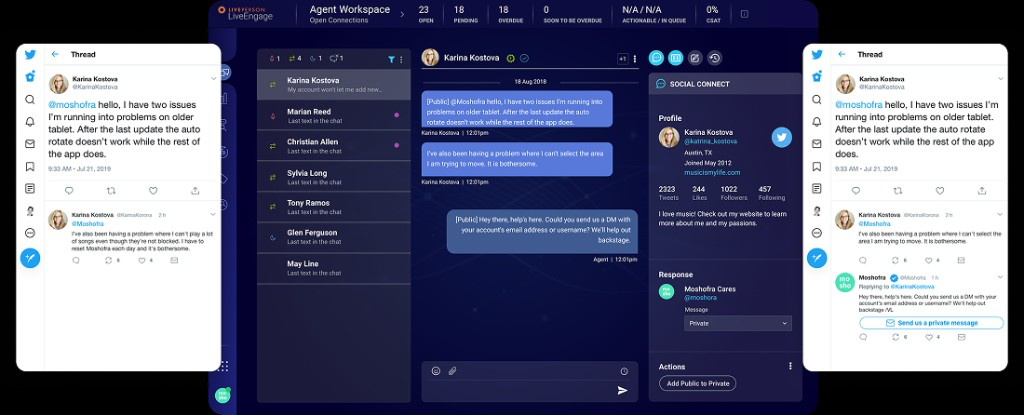
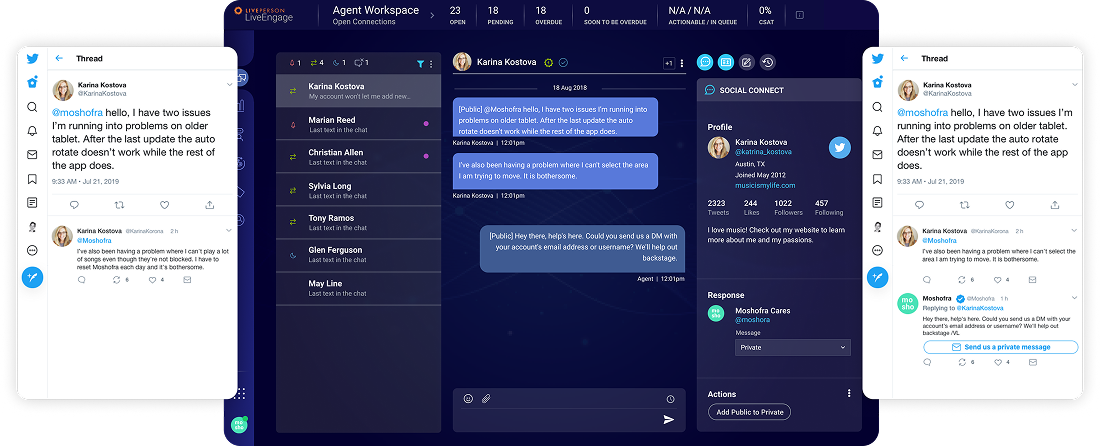
Hero clearance on tablet, Care's phone pair, and a LivePerson pass
Every project hero's below-lg top inset is now pt-24/sm:pt-28 (96/112px).
They were all over the place — pt-5/sm:pt-7 on six of them, which is 20px,
while the fixed Close control runs to about 68px down; the large marks were
sitting level with it. Bright already used these values after the same
complaint, so that's the standard now. lg is untouched: the marks stay at
left/top 100px there.

Care.com's two hero phones no longer come apart on a wide window. Both took
a percentage left (28.472% and 51.667%), so the distance between them grew
with the viewport while their widths — sized in --figma-u, pinned by
whichever axis is tighter — did not. At 1950x790 the 23.195% gap computes
to 452px against a 313px phone. The right phone now offsets from the left
one by the frame's own 334 units, and 84 vertically, so Figma's overlap
holds at any window shape. Its headline is left-aligned under the wordmark
below lg instead of right-aligned in the corner.

LivePerson: the public-tweet/private-thread composite is Molly's cut-out
PNG on the panel colour, with the corner rounding dropped so it can't nick
the artwork's own corners. Panel captions up from 0.9 to 1.05rem, the
parked mark from 110x24 to 152x32, and Projected Numbers off the meta panel
since the Impact row already carries the figures. The Impact block centres
on the panel now — NAV_CLEAR pairs a 142px top with a 24px bottom, so a
centred block landed 59px low. "4.5-point lift" takes a non-breaking hyphen
[…]

diff --git a/app/work/liveperson/page.tsx b/app/work/liveperson/page.tsx
@@ -38,7 +38,7 @@ const metrics = [
   { label: "Average Agent Response Time (ARTA)", value: "Dropped by 18%" },
   { label: "First Contact Resolution (FCR)", value: "Increased by 12%" },
   { label: "Meaningful Automated Conversation Score (MACS)", value: "Improved by 15%" },
-  { label: "Overall Customer Satisfaction (CSAT)", value: "4.5-point lift" },
+  { label: "Overall Customer Satisfaction (CSAT)", value: "4.5\u2011point lift" },
 ];
 
 /** Two images side by side, full-bleed panel — matches the Figma pairings. */
@@ -49,6 +49,7 @@ function BigImagePanel({
   height,
   caption,
   maxWidth = 950,
+  bare = false,
 }: {
   src: string;
   alt: string;
@@ -56,6 +57,9 @@ function BigImagePanel({
   height: number;
   caption?: string;
   maxWidth?: number;
+  /** Cut-out PNG on the panel colour — no rounding, since there's no card
+   *  edge to round and a 6px crop would nick the artwork's own corners. */
+  bare?: boolean;
 }) {
   return (
     <Panel width={VIEW} pad="center" className="items-center">
@@ -66,9 +70,9 @@ function BigImagePanel({
           width={width}
           height={height}
           sizes={`(max-width: 1024px) 92vw, min(90vw, ${maxWidth}px)`}
-          className="h-auto max-h-[591px] sm:max-h-[630px] md:max-h-[717px] lg:max-h-[504px] xl:max-h-[560px] 2xl:max-h-[630px] w-full rounded-md object-contain"
+          className={`h-auto max-h-[591px] sm:max-h-[630px] md:max-h-[717px] lg:max-h-[504px] xl:max-h-[560px] 2xl:max-h-[630px] w-full object-contain ${bare ? "" : "rounded-md"}`}
         />
-        {caption && <p className="mt-4 max-w-[70ch] text-[0.9rem] sm:text-[0.9rem] md:text-[0.9rem] lg:text-[0.9rem] xl:text-[0.9rem] 2xl:text-[1.05rem] opacity-80">{caption}</p>}
+        {caption && <p className="mt-4 max-w-[70ch] text-[1.05rem] sm:text-[1.05rem] md:text-[1.05rem] lg:text-[1.05rem] xl:text-[1.1rem] 2xl:text-[1.25rem] opacity-80">{caption}</p>}
       </SlideIn>
     </Panel>
   );
@@ -89,7 +93,7 @@ export default function LivePersonCaseStudy() {
       <StickyNav
         watch="title"
         logo={
-          <div className="relative h-6 w-[110px] sm:h-7 sm:w-[130px]">
+          <div className="relative h-7 w-[130px] sm:h-8 sm:w-[152px]">
             <Image src={LOGO} alt="LivePerson" fill unoptimized className="object-contain object-left" />
           </div>
         }
@@ -109,7 +113,7 @@ export default function LivePersonCaseStudy() {
             this collapses back to a plain stacked flex column. */}
         <section
           id="title"
-          className="relative flex w-full flex-col gap-10 px-5 pb-10 pt-5 sm:px-8 sm:pt-7 lg:h-[100dvh] lg:w-screen lg:shrink-0 lg:snap-start lg:gap-0 lg:overflow-hidden lg:px-0 lg:pt-0"
+          className="relative flex w-full flex-col gap-10 px-5 pb-10 pt-24 sm:px-8 sm:pt-28 lg:h-[100dvh] lg:w-screen lg:shrink-0 lg:snap-start lg:gap-0 lg:overflow-hidden lg:px-0 lg:pt-0"
         >
           {/* Logo — Figma: 100,100, 668×106 */}
           <div className="relative h-10 w-[220px] sm:h-14 sm:w-[300px] lg:absolute lg:left-[100px] lg:top-[100px] lg:h-[75px] xl:h-[94px] 2xl:h-[113px] lg:w-[475px] xl:w-[594px] 2xl:w-[713px] lg:max-w-[668px]">
@@ -186,9 +190,10 @@ export default function LivePersonCaseStudy() {
         <BigImagePanel
           src="/work/liveperson/public-tweet-private-thread.png"
           alt="A public tweet on Twitter routed into the LiveEngage agent workspace, with the full private thread and social profile alongside it"
-          width={1024}
-          height={415}
-          maxWidth={950}
+          width={1100}
+          height={446}
+          maxWidth={1000}
+          bare
         />
 
         {/* ── SINGLE PLATFORM ───────────────────────────────────────────── */}
@@ -249,7 +254,11 @@ export default function LivePersonCaseStudy() {
         />
 
         {/* ── IMPACT ────────────────────────────────────────────────────── */}
-        <Panel width={VIEW} pad="center">
+        {/* lg:!pb-[var(--nav-clear)] balances the top inset. NAV_CLEAR pairs a
+            142px top with a 24px bottom, so a centred block lands 59px below
+            the panel's true middle — fine for media that needs the headroom,
+            wrong for a short stat row. */}
+        <Panel width={VIEW} pad="center" className="lg:!pb-[var(--nav-clear)]">
           <div className={`${MEASURE} mx-auto`}>
             <Heading>Impact</Heading>
             {/* Across, not down — the same shape as every other project's
@@ -271,6 +280,7 @@ export default function LivePersonCaseStudy() {
         <CaseStudyMetaPanel
           meta={getCaseStudyMeta(project)}
           lightText={fg === "#f5f5f5"}
+          showProjected={false}
         />
 
         <NextProjectLink

diff --git a/app/work/docsquad/page.tsx b/app/work/docsquad/page.tsx
@@ -153,7 +153,7 @@ export default function DocSquadCaseStudy() {
             Hero 479,349 / 891×529 */}
         <section
           id="docsquad-title"
-          className="relative flex w-full min-w-0 flex-col gap-8 overflow-x-hidden px-6 pb-12 pt-6 sm:px-10 lg:h-[100dvh] lg:w-screen lg:shrink-0 lg:snap-start lg:gap-0 lg:overflow-hidden lg:px-0 lg:pb-0 lg:pt-0"
+          className="relative flex w-full min-w-0 flex-col gap-8 overflow-x-hidden px-6 pb-12 pt-24 sm:px-10 sm:pt-28 lg:h-[100dvh] lg:w-screen lg:shrink-0 lg:snap-start lg:gap-0 lg:overflow-hidden lg:px-0 lg:pb-0 lg:pt-0"
         >
           <div className="relative z-10 aspect-[842/112] w-[min(100%,842px)] lg:absolute lg:left-[100px] lg:top-[100px] lg:h-[80px] xl:h-[89px] 2xl:h-[101px] lg:w-[599px] xl:w-[748px] 2xl:w-[898px] lg:max-w-none lg:aspect-auto">
             <Image
@@ -302,7 +302,7 @@ export default function DocSquadCaseStudy() {
                  fixed top: at 1440 the old top of 192 left it 3px under the
                  mark with 293px of empty field beneath. top-1/2 plus half the
                  nav band splits that space evenly. A step larger too. */
-              className="relative aspect-[720/519] w-full max-w-[720px] overflow-hidden rounded-[10px] lg:absolute lg:left-[256px] xl:left-[320px] 2xl:left-[384px] lg:top-[calc(50%_+_var(--nav-clear)/2)] lg:h-[437px] xl:h-[484px] 2xl:h-[545px] lg:w-[598px] xl:w-[746px] 2xl:w-[896px] lg:max-w-none lg:aspect-auto lg:-translate-y-1/2">
+              className="relative aspect-[720/519] w-full max-w-[720px] overflow-hidden rounded-[10px] lg:absolute lg:left-[256px] xl:left-[320px] 2xl:left-[384px] lg:top-[calc(50%_+_var(--nav-clear)/6)] lg:h-[437px] xl:h-[484px] 2xl:h-[545px] lg:w-[598px] xl:w-[746px] 2xl:w-[896px] lg:max-w-none lg:aspect-auto lg:-translate-y-1/2">
             <Image
               src={`${ASSET}/icons.png`}
               alt="Custom illustration and icon set for the DocSquad design system"
@@ -329,12 +329,12 @@ export default function DocSquadCaseStudy() {
         </ScreenPanel>
 
         {/* 9 — PORTRAIT. Figma 4622:11969 is 950×1000; circle 600 at center, top 50%+20 */}
-        <ScreenPanel width="lg:w-[min(100vw,59.375rem)]">
+        <ScreenPanel width="lg:w-[min(100vw,44rem)]">
           <div /* No lg:w-[600px] alongside lg:size-[...]: both are lg utilities of
                  equal specificity, and w-* won in the bundle, so the box came
                  out 600 wide by 567 tall — an ellipse under rounded-full.
                  size-* alone keeps it square. */
-              className="relative aspect-square w-[304px] sm:w-[499px] md:w-[599px] overflow-hidden rounded-full lg:absolute lg:left-1/2 lg:top-[calc(50%+20px)] lg:size-[min(39.37vw,600px)] lg:-translate-x-1/2 lg:-translate-y-1/2">
+              className="relative aspect-square w-[260px] sm:w-[400px] md:w-[472px] overflow-hidden rounded-full lg:absolute lg:left-1/2 lg:top-[calc(50%+20px)] lg:size-[min(31vw,472px)] lg:-translate-x-1/2 lg:-translate-y-1/2">
             <Image
               src={`${ASSET}/portrait.png`}
               alt="A virtual moonlighter clinician"

diff --git a/app/work/care-homepay/page.tsx b/app/work/care-homepay/page.tsx
@@ -103,7 +103,7 @@ export default function CareHomepayCaseStudy() {
             the order-* classes stack it: logo, headline, phones, badges. */}
         <section
           id="title"
-          className="relative flex w-full flex-col gap-8 overflow-hidden px-6 pb-10 pt-6 sm:px-10 lg:h-[100dvh] lg:w-screen lg:shrink-0 lg:snap-start lg:gap-0 lg:px-0 lg:pb-0 lg:pt-0"
+          className="relative flex w-full flex-col gap-8 overflow-hidden px-6 pb-10 pt-24 sm:px-10 sm:pt-28 lg:h-[100dvh] lg:w-screen lg:shrink-0 lg:snap-start lg:gap-0 lg:px-0 lg:pb-0 lg:pt-0"
         >
           {/* Large logo — Figma 4555:22725, 672x120 at 100,100 */}
           <div className="care-hero-logo order-1 relative h-[60px] w-[280px] sm:h-[80px] sm:w-[380px]">
@@ -139,7 +139,7 @@ export default function CareHomepayCaseStudy() {
 
           {/* Headline — Figma 4555:22842, 455 wide at 831,114: just right of
               the wordmark, left-aligned. */}
-          <SlideIn className="care-hero-title order-2 self-end max-w-[340px] text-right">
+          <SlideIn className="care-hero-title order-2 self-start max-w-[340px] text-left">
             <p className="text-xl font-semibold leading-snug text-white sm:text-2xl">
               Homepay Employee &amp; Employer Payroll App
             </p>

diff --git a/app/work/[slug]/page.tsx b/app/work/[slug]/page.tsx
@@ -194,7 +194,7 @@ function TitlePanel({
       id="title"
       className="relative flex w-full flex-col md:flex-row md:items-center lg:h-[100dvh] lg:w-screen lg:shrink-0 lg:snap-start lg:overflow-y-auto lg:overscroll-contain"
     >
-      <div className="flex w-full flex-col justify-between gap-10 px-5 pb-10 pt-5 sm:px-8 sm:pt-7 md:w-[40%] md:gap-6 lg:h-full lg:gap-0 lg:pb-[10%] lg:pl-[100px] lg:pt-[100px]">
+      <div className="flex w-full flex-col justify-between gap-10 px-5 pb-10 pt-24 sm:px-8 sm:pt-28 md:w-[40%] md:gap-6 lg:h-full lg:gap-0 lg:pb-[10%] lg:pl-[100px] lg:pt-[100px]">
         {project.logo ? (
           <div
             className={
@@ -296,7 +296,7 @@ export default function CaseStudy({ params }: { params: { slug: string } }) {
 
         <section
           id="title"
-          className="mx-auto flex w-full max-w-7xl flex-col gap-6 px-8 pb-10 pt-16 sm:px-12 lg:px-20 lg:pt-20"
+          className="mx-auto flex w-full max-w-7xl flex-col gap-6 px-8 pb-10 pt-24 sm:px-12 sm:pt-28 lg:px-20 lg:pt-20"
         >
           {project.logo ? (
             <div className="relative h-20 w-full max-w-[480px] sm:h-24 md:h-32">

diff --git a/app/work/athenawell/page.tsx b/app/work/athenawell/page.tsx
@@ -130,7 +130,7 @@ export default function AthenaWellCaseStudy() {
         {/* ── TITLE ─────────────────────────────────────────────────── */}
         <section
           id="title"
-          className="relative flex w-full flex-col justify-center gap-8 px-5 pb-10 pt-5 sm:px-8 sm:pt-7 lg:h-[100dvh] lg:w-screen lg:shrink-0 lg:snap-start lg:gap-10 lg:pl-[100px] lg:pr-[71px] xl:pr-[89px] 2xl:pr-[107px] lg:pt-[100px]"
+          className="relative flex w-full flex-col justify-center gap-8 px-5 pb-10 pt-24 sm:px-8 sm:pt-28 lg:h-[100dvh] lg:w-screen lg:shrink-0 lg:snap-start lg:gap-10 lg:pl-[100px] lg:pr-[71px] xl:pr-[89px] 2xl:pr-[107px] lg:pt-[100px]"
         >
           <div className="relative h-8 w-[190px] sm:h-9 sm:w-[220px]">
             <Image src={LOGO} alt="athenaWell" fill unoptimized priority className="object-contain object-left" />

diff --git a/app/globals.css b/app/globals.css
@@ -299,9 +299,18 @@ body::before {
     top: 30.5%;
     width: calc(396.5 * var(--figma-u));
   }
+  /* Anchored to the LEFT phone in --figma-u, not to its own percentage of
+     the panel. Both phones used to take a percentage left (28.472% and
+     51.667%), so the distance between them grew with the window while their
+     widths — sized in --figma-u, which is pinned by whichever axis is
+     tighter — did not. On a wide, short window the gap outran the overlap and
+     the two handsets came apart: at 1950x790 the 23.195% gap is 452px against
+     a 313px phone. Offsetting by the frame's own 334 units (744 - 410) keeps
+     Figma's overlap exactly, at any window shape. Same for the 84-unit
+     vertical stagger (389 - 305). */
   main .care-hero-phone-r {
-    left: 51.667%;
-    top: 38.9%;
+    left: calc(28.472% + 334 * var(--figma-u));
+    top: calc(30.5% + 84 * var(--figma-u));
     width: calc(407 * var(--figma-u));
   }
 

diff --git a/app/work/athenahealth/page.tsx b/app/work/athenahealth/page.tsx
@@ -100,7 +100,7 @@ export default function ConsumerHealthCaseStudy() {
         {/* Title */}
         <section
           id="title"
-          className="relative flex w-full min-w-0 flex-col gap-8 overflow-x-hidden px-6 pb-12 pt-16 sm:px-10 sm:pt-20 lg:h-[100dvh] lg:w-screen lg:shrink-0 lg:snap-start lg:gap-0 lg:overflow-hidden lg:px-0 lg:pb-0 lg:pt-0"
+          className="relative flex w-full min-w-0 flex-col gap-8 overflow-x-hidden px-6 pb-12 pt-24 sm:px-10 sm:pt-28 lg:h-[100dvh] lg:w-screen lg:shrink-0 lg:snap-start lg:gap-0 lg:overflow-hidden lg:px-0 lg:pb-0 lg:pt-0"
         >
           <div className="relative z-10 aspect-[740/104] w-[min(100%,740px)] lg:absolute lg:left-[100px] lg:top-[100px] lg:h-[75px] xl:h-[83px] 2xl:h-[94px] lg:w-[526px] xl:w-[658px] 2xl:w-[789px] lg:max-w-none lg:aspect-auto">
             <Image src={LOGO} alt="athenahealth" fill unoptimized priority className="object-contain object-left" />

diff --git a/app/work/netspend/page.tsx b/app/work/netspend/page.tsx
@@ -68,7 +68,7 @@ export default function NetspendCaseStudy() {
             and the card fan isn’t clipped by the scrollbar gutter. */}
         <section
           id="title"
-          className="relative flex w-full min-w-0 flex-col gap-8 overflow-x-hidden px-6 pb-12 pt-6 sm:px-10 lg:h-[100dvh] lg:w-[100dvw] lg:shrink-0 lg:snap-start lg:gap-0 lg:overflow-hidden lg:px-0 lg:pb-0 lg:pt-0"
+          className="relative flex w-full min-w-0 flex-col gap-8 overflow-x-hidden px-6 pb-12 pt-24 sm:px-10 sm:pt-28 lg:h-[100dvh] lg:w-[100dvw] lg:shrink-0 lg:snap-start lg:gap-0 lg:overflow-hidden lg:px-0 lg:pb-0 lg:pt-0"
         >
           {/* Large logo — same left/top anchor; height-driven so the wordmark never clips */}
           <div className="relative z-10 h-[52px] w-[min(100%,20rem)] sm:h-[60px] sm:w-[22.5rem] lg:absolute lg:left-[100px] lg:top-[100px] lg:h-[72px] lg:w-[min(680px,47vw)]">

diff --git a/app/work/patient-io/page.tsx b/app/work/patient-io/page.tsx
@@ -112,7 +112,7 @@ export default function PatientIoCaseStudy() {
         {/* ── TITLE ─────────────────────────────────────────────────── */}
         <section
           id="title"
-          className="relative flex w-full flex-col gap-8 px-5 pb-10 pt-5 sm:px-8 sm:pt-7 lg:h-[100dvh] lg:w-screen lg:shrink-0 lg:snap-start lg:gap-12 lg:pl-[100px] lg:pr-[71px] xl:pr-[89px] 2xl:pr-[107px] lg:pt-[100px]"
+          className="relative flex w-full flex-col gap-8 px-5 pb-10 pt-24 sm:px-8 sm:pt-28 lg:h-[100dvh] lg:w-screen lg:shrink-0 lg:snap-start lg:gap-12 lg:pl-[100px] lg:pr-[71px] xl:pr-[89px] 2xl:pr-[107px] lg:pt-[100px]"
         >
           {/* Logo + headline sit on one row on desktop, matching the Figma
               hero (node 4732:9502) — stacked on mobile/tablet since there's

diff --git a/app/work/govos-esubmission/page.tsx b/app/work/govos-esubmission/page.tsx
@@ -370,7 +370,7 @@ export default function GovOSCaseStudy() {
               section itself has a definite height, i.e. lg+ — below that
               it's a normal auto-height column and the two just stack with
               their own gap. */}
-          <div className="flex w-full flex-col justify-between gap-10 px-5 pb-10 pt-5 sm:px-8 sm:pt-7 md:w-[38%] md:gap-6 lg:h-full lg:gap-0 lg:pb-[10%] lg:pl-[100px] lg:pt-[100px]">
+          <div className="flex w-full flex-col justify-between gap-10 px-5 pb-10 pt-24 sm:px-8 sm:pt-28 md:w-[38%] md:gap-6 lg:h-full lg:gap-0 lg:pb-[10%] lg:pl-[100px] lg:pt-[100px]">
             <Image
               src="/work/govos/govos-logo-white.svg"
               alt="GovOS"
